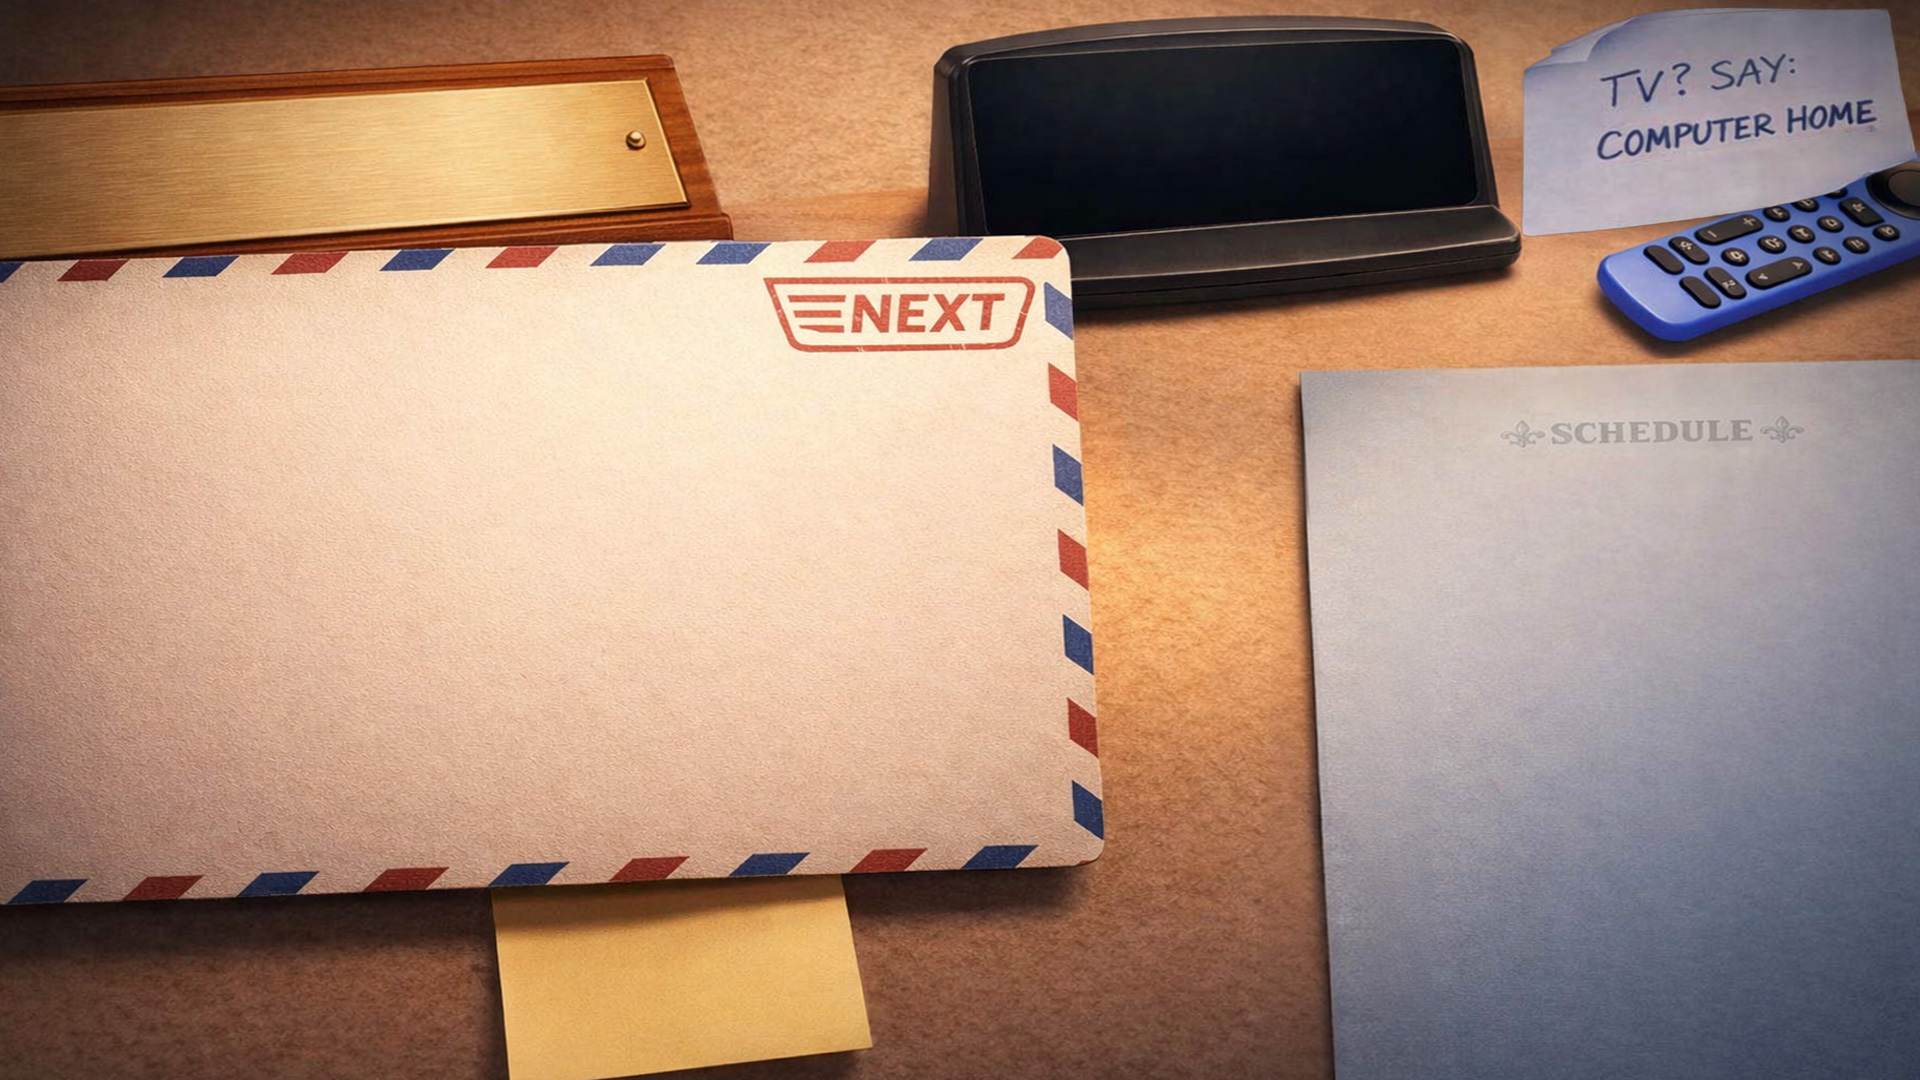
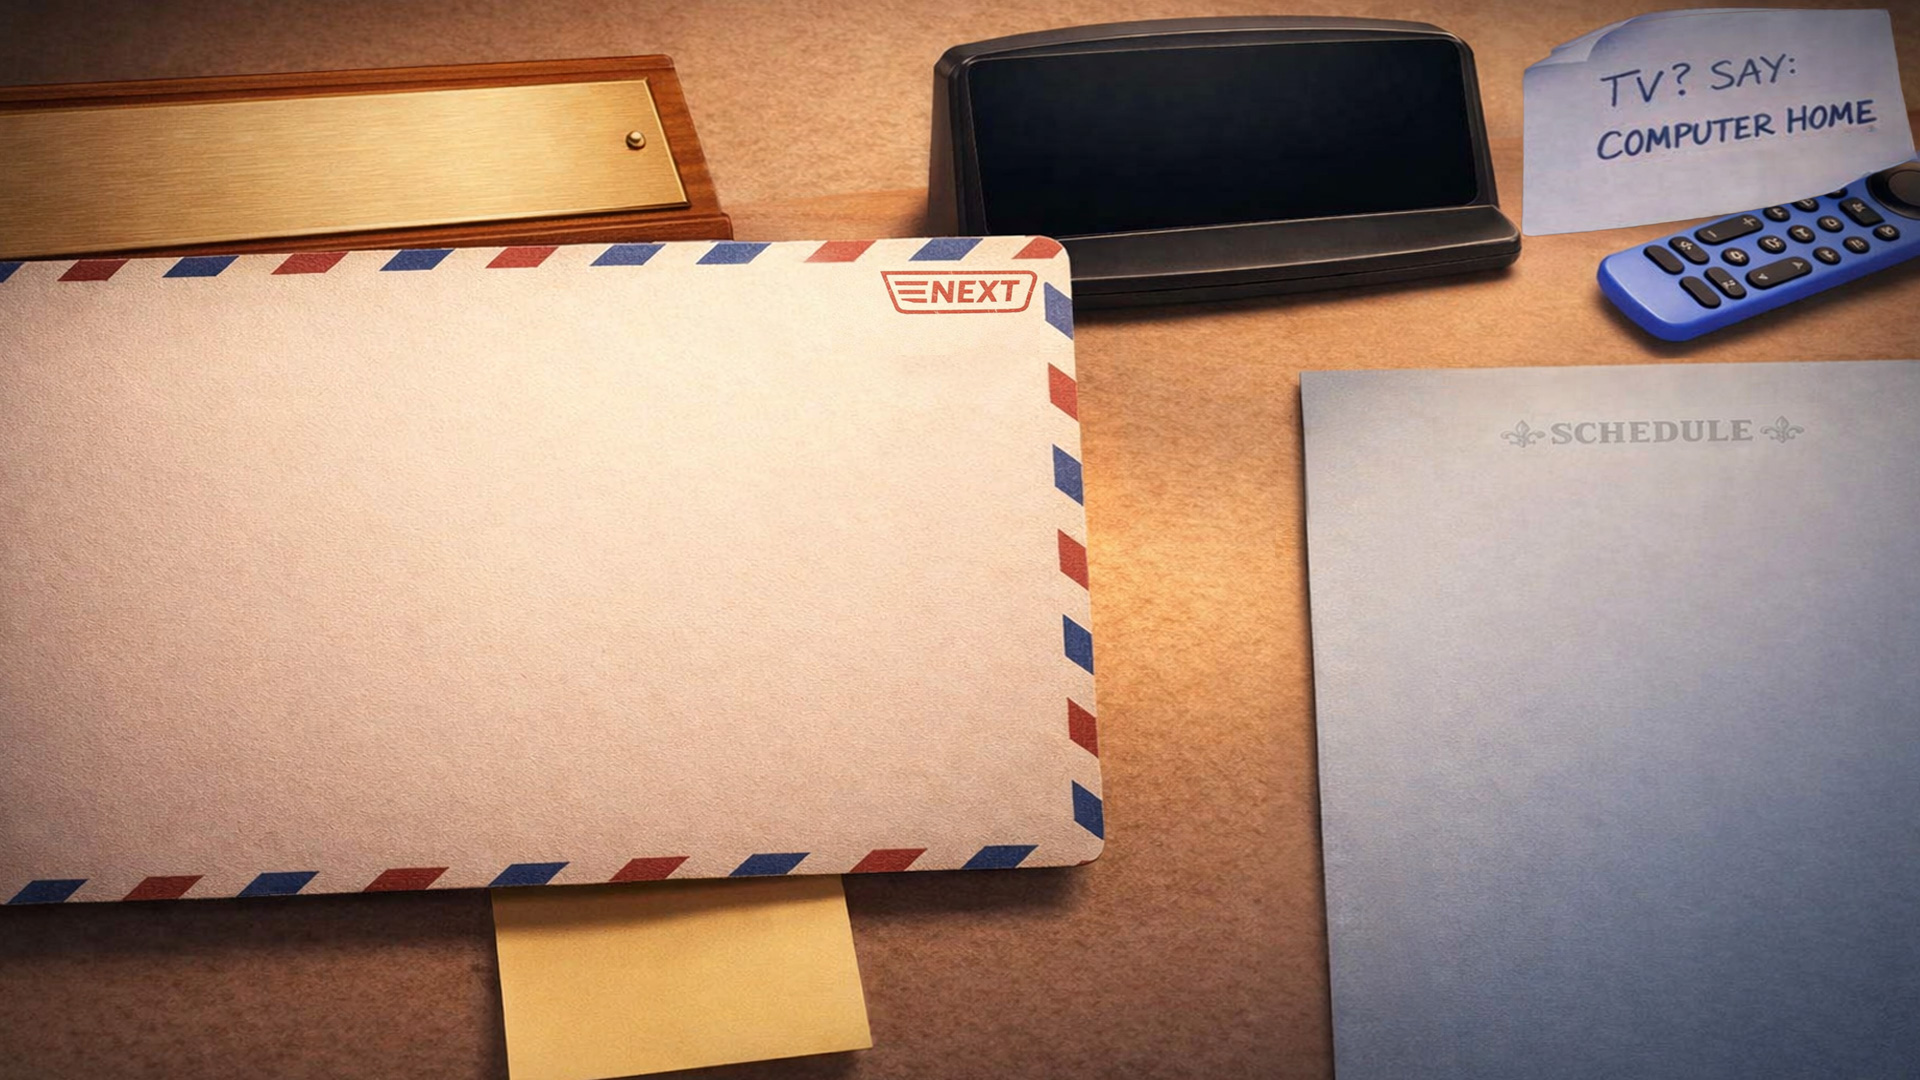
Polish dashboard background and notes

Changed region(s): [[0.375, 0.2444, 0.5625, 0.3361]]

diff --git a/js/encouragement-note.js b/js/encouragement-note.js
@@ -1,17 +1,17 @@
 const ENCOURAGEMENT_PHRASES = [
-  "Today is going to\nbe a good day",
-  "God is with me\ntoday",
-  "I can do this\none step at a time",
-  "Life is good\nbecause God is good",
-  "God loves me\ntoday",
-  "Im not alone today\nGod is with me",
-  "Today Ill just\nenjoy life",
-  "Today is\na good day",
-  "I will be\nthankful today",
-  "Remember\nPray for your family",
-  "Rest\nTrust God today",
-  "I am loved today",
-  "Gods got me",
+  "Today is going to\nbe a good day.",
+  "God is with me\ntoday.",
+  "I can do this . . .\none step at a time.",
+  "Life is good\nbecause God is good.",
+  "God loves me\ntoday.",
+  "I'm not alone today\nGod is with me.",
+  "Today I'll just\nenjoy life.",
+  "Today is\na good day.",
+  "I will be\nthankful today.",
+  "Remember\nPray for your family.",
+  "Rest\nTrust God today.",
+  "I am loved today.",
+  "God's got me.",
 ];
 
 /**
